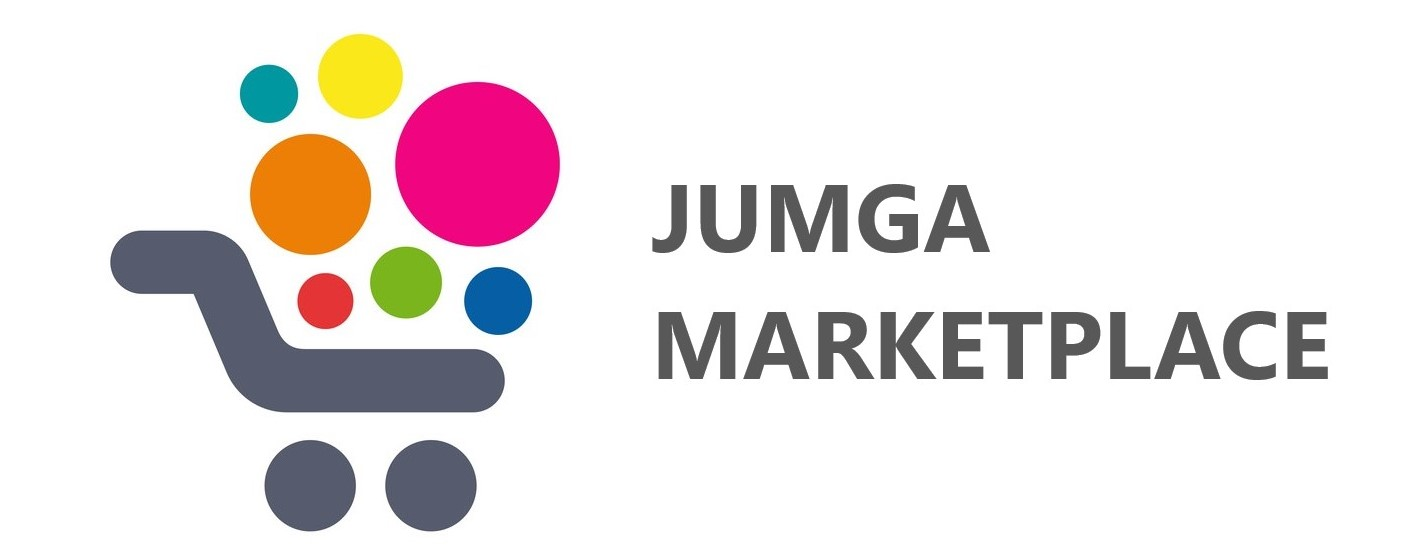
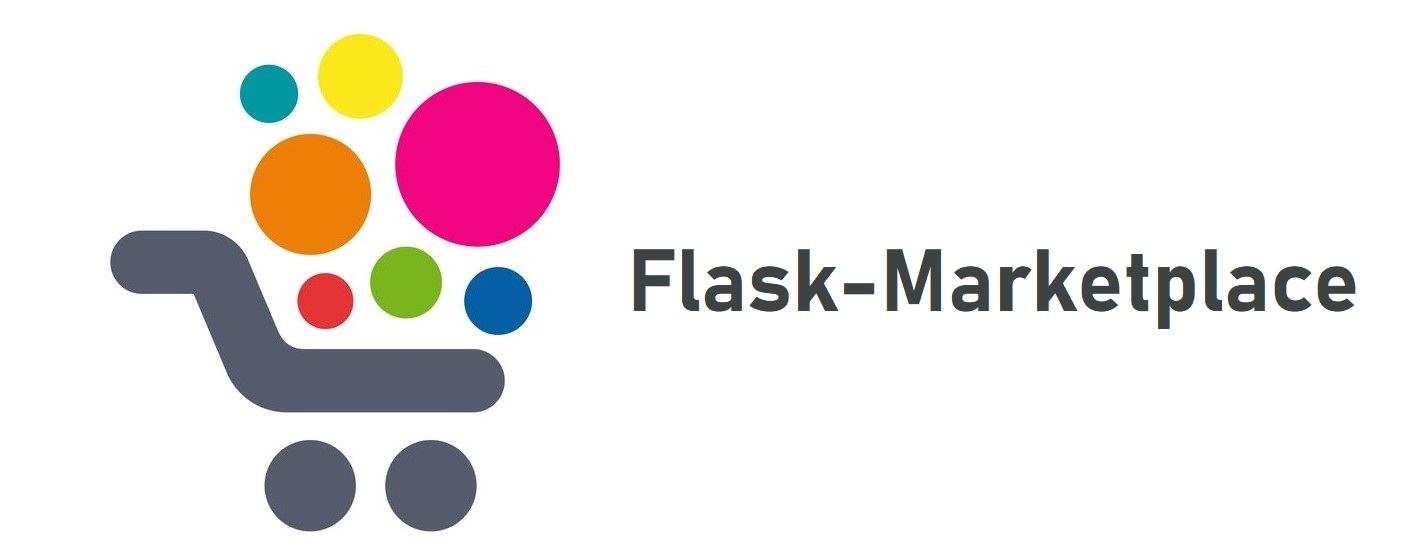
Renamed

Changed region(s): [[0.4338, 0.3036, 0.9606, 0.6982]]

diff --git a/config.py b/config.py
@@ -1,5 +1,5 @@
 class Config:
-    APP_NAME = 'JUMGA'
+    APP_NAME = 'Flask'
     DEBUG = True
     SECRET_KEY = 'Ir$6789BoknbgRt678/;oAp[@.kjhgHfdsaw34I&?lP56789M'
     SECURITY_PASSWORD_HASH = 'sha512_crypt'

diff --git a/demo_data/dummy_data.py b/demo_data/dummy_data.py
@@ -6,8 +6,8 @@ roles = {
 }
 
 users = {
-    'Jumga Admin': [
-        'admin@jumga.com',
+    'Admin': [
+        'admin@market.com',
         'password',
         'Admin'
     ],

diff --git a/ReadMe.md b/ReadMe.md
@@ -1,4 +1,4 @@
-# [JUMGA MARKETPLACE](http://ewetoye.pythonanywhere.com/)
+# [Flask-Marketplace](http://ewetoye.pythonanywhere.com/)
 ![Bootstrap-4.4.1](https://img.shields.io/badge/Bootstrap-4.4.1-blue "Bootstrap-4.4.1")
 ![Flask==1.2.2](https://img.shields.io/badge/Flask-1.1.2-black "Flask==1.2.2")
 ![Flask-SQLAlchemy==2.4.4](https://img.shields.io/badge/FlaskSQLAlchemy-2.4.4-black "Flask-SQLAlchemy==2.4.4")
@@ -34,10 +34,10 @@
 This web application provides a Jumia-Like online market features where different vendors register their stores and publish products for sale and also posses some additional features, notable of which are:
   * **Multicurrency:** By default the platform allows customers to switch currency. This could be fixed to the desired currency in the configuration file by setting the `PRODUCT_PRICING` value. [More in the configurations section](#Configuration-parameters). 
   * **Vendor Registration Token:** For registration, a fee whose value and currency could be set by setting the `STORE_REG_AMT` (defaults to 10 USD) value in the config. Read more in the config section.
-  * **Dispatcher Assignment:** Upon successful registration, a JUMGA dispatcher is randomly assigned to each store.
+  * **Dispatcher Assignment:** Upon successful registration, a registered dispatcher is randomly assigned to each store.
   * **Revenue sharing:** For every checked-out order, the total revenue is shared based on the value of the `STORE_PAY_RATIO` and `SPLIT_RATIO_DISPATCHER` configuration values. But by default:
-    * Vendor:Jumga = 0.97:0.03 of the product prices
-    * Dispatcher:Jumga = 0.80:0.2 of delivery fee.
+    * Vendor:Platform = 0.97:0.03 of the product prices
+    * Dispatcher:Platform = 0.80:0.2 of delivery fee.
     Note: The point at which the splitting occurs is defined by the PAYMENT_SPLIT_POINT (defaults to 'instant') see the Configuration section.
 
 ## Setup
@@ -50,7 +50,7 @@ This web application provides a Jumia-Like online market features where differen
 ### Registration
 [Try the steps below from a this working version](http://ewetoye.pythonanywhere.com/)
 <div align='center'>
-  <img src="https://raw.githubusercontent.com/EwetoyeIbrahim/static_assets/master/Jumga/readme_files/registration.gif"
+  <img src="https://raw.githubusercontent.com/EwetoyeIbrahim/static_assets/master/Flask-Marketplace/readme_files/registration.gif"
     title="Registration process" width='100%'>
 </div>
 
@@ -62,7 +62,7 @@ This web application provides a Jumia-Like online market features where differen
 ### Store and Product Registration
 [Try registering a store](http://ewetoye.pythonanywhere.com/)
 <div align='center'>
-  <img src="https://raw.githubusercontent.com/EwetoyeIbrahim/static_assets/master/Jumga/readme_files/store and product reg.gif"
+  <img src="https://raw.githubusercontent.com/EwetoyeIbrahim/static_assets/master/Flask-Marketplace/readme_files/store and product reg.gif"
     title="Registration process" width='100%'>
 </div>
 
@@ -71,13 +71,13 @@ When multicurrency in set to true, stores are allowed to quote the prices of the
 For every store sales, the share of the store owner is picked up from the `SPLIT_RATIO_STORE` (default is 0.975) configuration variable and when the `PAYMENT_SPLIT_POINT` is set to instant, the disbursement is achieved with Flutterwave's split payment feature. Check [payments and calculations](#Payments-and-calculations) for more.
 
 ### Dispatcher
-Dispatchers are created by Jumga, each dispatcher can charge different delivery rates which is specified during creation. Just like the stores, their account details are sent to flutterwave for the creation or modification of subaccounts.
+Dispatchers are created on the platform, each dispatcher can charge different delivery rates which is specified during creation. Just like the stores, their account details are sent to flutterwave for the creation or modification of subaccounts.
 For every product sales, the dispatcher receives `SPLIT_RATIO_DISPATCHER` (default to 0.8) fraction of it's sum of delivery charge. Check [payments and calculations](#Payments-and-calculations) for more.
 
 ### Shopping and checking-out
 [Try shopping and checking out](http://ewetoye.pythonanywhere.com/)
 <div align='center'>
-  <img src="https://raw.githubusercontent.com/EwetoyeIbrahim/static_assets/master/Jumga/readme_files/shopping and checkout.gif"
+  <img src="https://raw.githubusercontent.com/EwetoyeIbrahim/static_assets/master/Flask-Marketplace/readme_files/shopping and checkout.gif"
     title="Registration process" width='100%'>
 </div>
 
@@ -108,7 +108,7 @@ In this scenario:
 * Kwik(Dispatcher attched to Cocacola) gets 2820 * 0.8 = 2,256 NGN
 * Nokia gets 118000 * 0.975 = 115,050 NGN
 * Max(Dispatcher attched to Cocacola) gets 1880 * 0.8 = 1,504 NGN
-* Jumga receives the balance less the fluttewaves tranction charges
+* The platform receives the balance less the fluttewaves tranction charges
 
 
 ## Configuration Parameters
